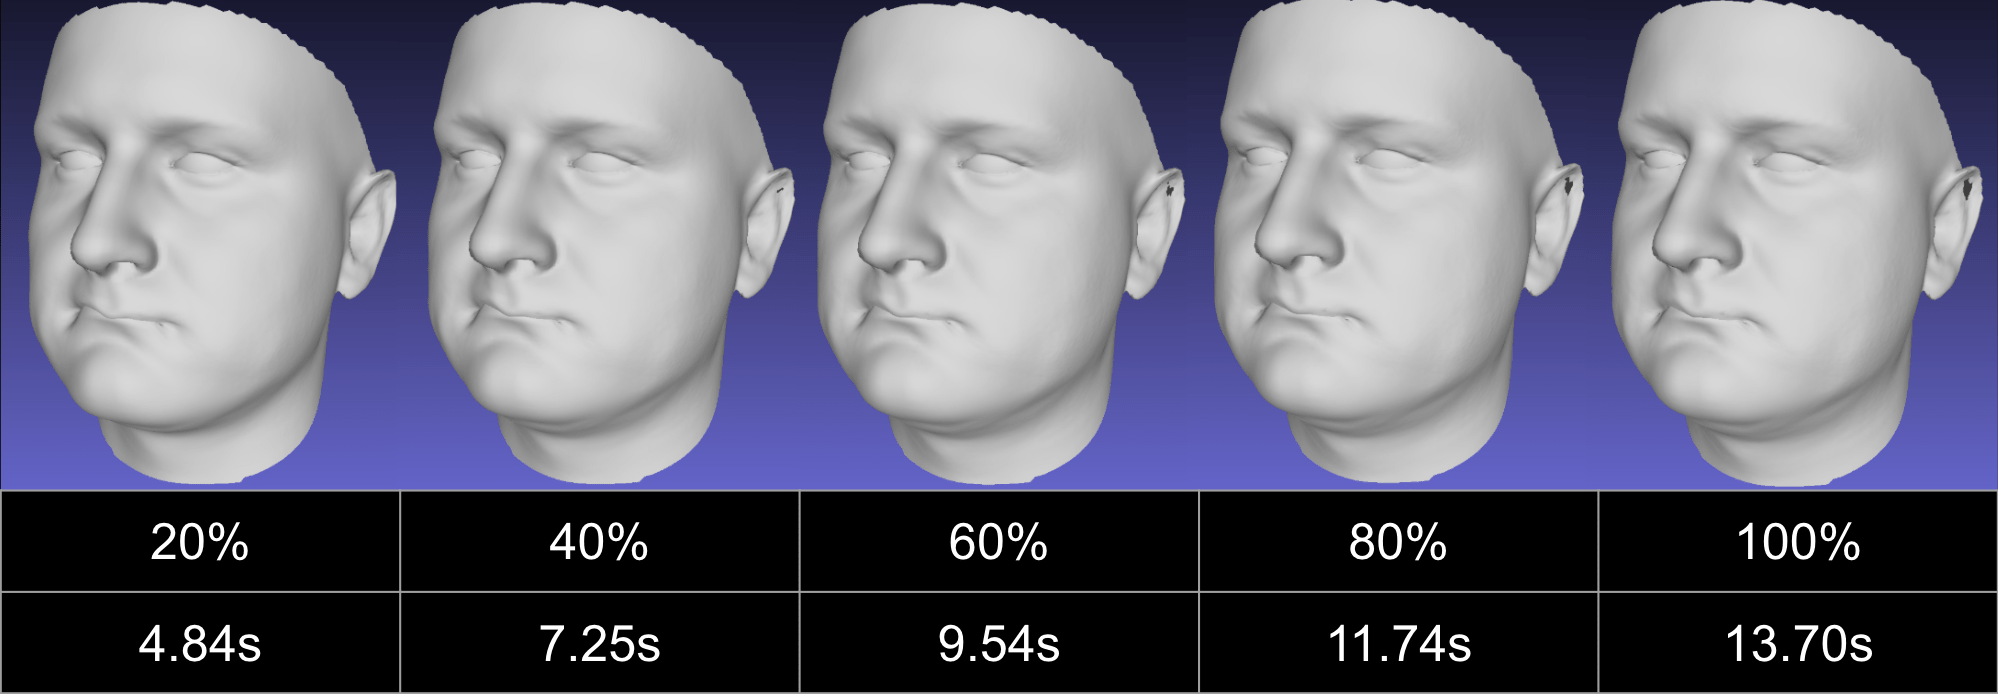
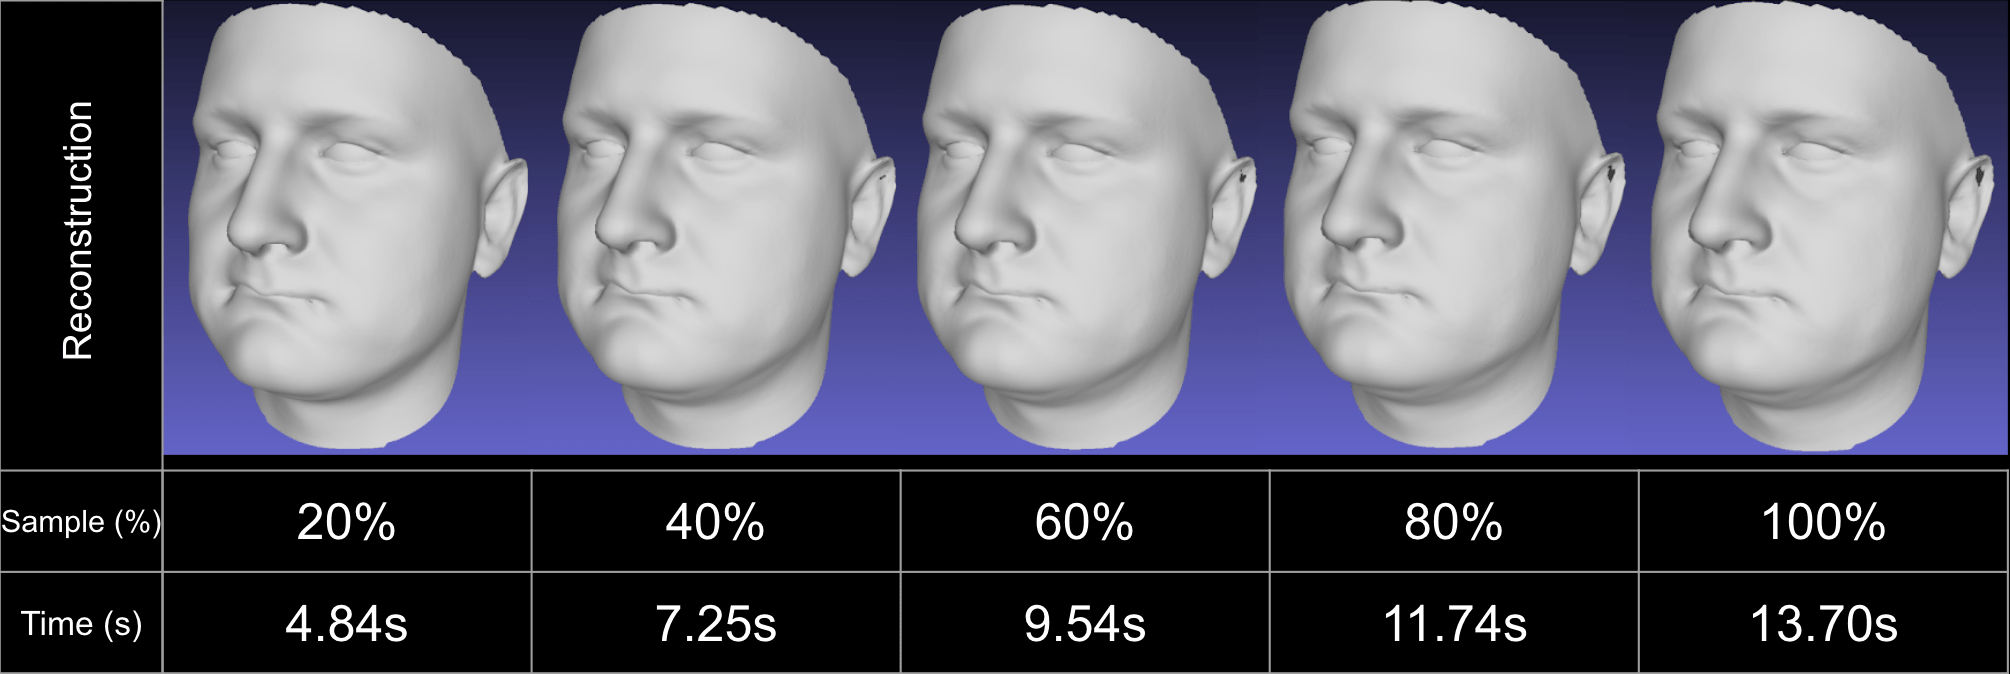
Update README

diff --git a/README.md b/README.md
@@ -6,9 +6,22 @@
 
 This is a reproduction of part of the work of Dr. Justus Thies in his paper _Real-time Expression Transfer for Facial Reenactment_ [1] to reconstruct high resolution facial expression and geometry (gray) form a Kinect face scan (red).
 
+### Algorithm
 
+See `src/facesolver.cpp` for main optimization loop.
 
-We fit a face model parameterized by face geometry, expression and pose to an RGB-D scan.
+1. Minimize the sum-squared-distance error for sparce correspondence points between face model and scan.
+2. For number of iterations `num_iters`:
+   1. Randomly sample a subset (`frac-used-vertices`) of model vertices.
+   2. Find new correspondence points by computing the nearest scan vertex (1-KNN) to each model vertex.
+   3. Filter scan vertices at border (if `ignore-borders = true`) and model vertices not in `model/mesh/averageMesh_blackface.off`
+   4. Minimize the sum-squared-distance error for all correspondence points that are below a distance threshold `knn-dist-thresh`.
+
+### Optimization
+
+Significant performance improvements were made possible by only optimizing over the first 40 PCA components for geometry and 30 PCA components for expression (see `include/config.h`).
+
+We achieved further performance improvements by randomly sampling subset of face scan vertices (`frac-used-vertices`). Below are the results of using various sampling percentages and their runtimes on a commodity Intel-i5 CPU. By qualitative inspection, even using 20% of available vertices achieves nearly the same reconstruction as when using 100% of available vertices in just a third of the time.
 
 ![](/content/frac-vertices-time.png)
 
